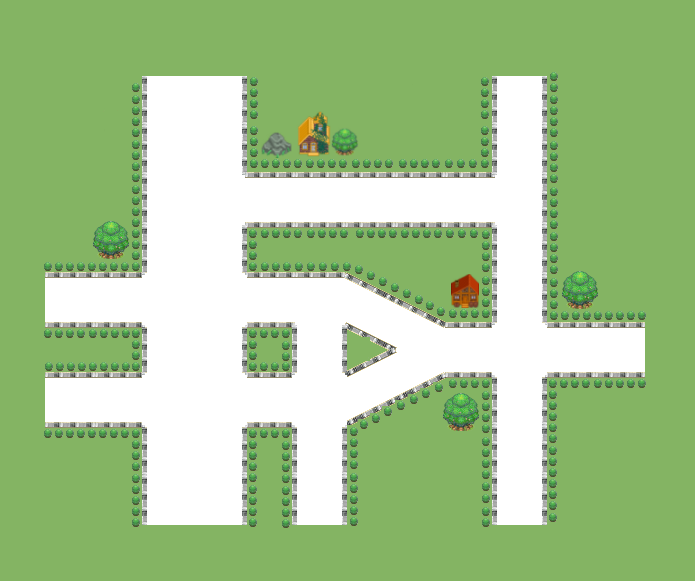
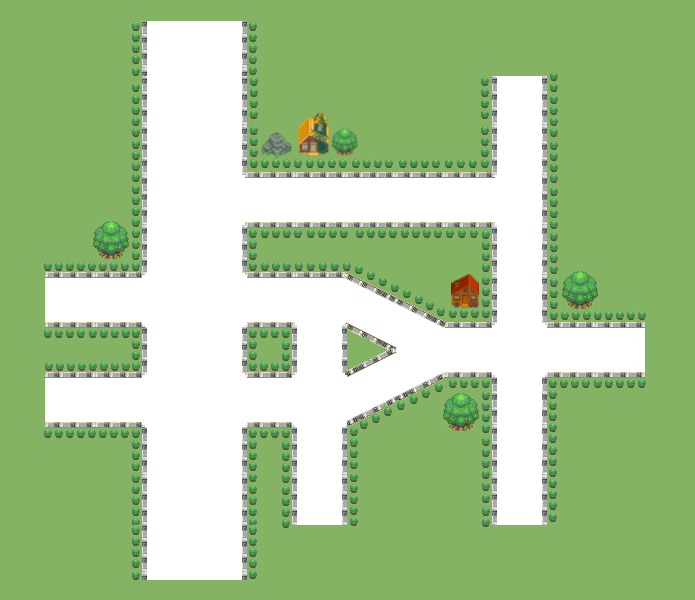
changing map

diff --git a/src/static/js/map.js b/src/static/js/map.js
@@ -6,6 +6,7 @@ function building_road() {
         [275, 325, 90, 'road'],
         [275, 275, 90, 'road'],
 
+        [350, 550, 0, 'road'],
         [350, 500, 0, 'road'],
         [350, 450, 0, 'road'],
         [325, 425, 90, 'road'],
@@ -17,7 +18,9 @@ function building_road() {
         [350, 200, 0, 'road'],
         [350, 150, 0, 'road'],
         [350, 100, 0, 'road'],
+        [350, 50, 0, 'road'],
 
+        [450, 50, 0, 'road'],
         [450, 100, 0, 'road'],
         [450, 150, 0, 'road'],
         [475, 175, 90, 'road'],
@@ -30,6 +33,7 @@ function building_road() {
         [475, 425, 90, 'road'],
         [450, 450, 0, 'road'],
         [450, 500, 0, 'road'],
+        [450, 550, 0, 'road'],
 
         [500, 500, 0, 'road'],
         [500, 450, 0, 'road'],
@@ -90,7 +94,7 @@ function building_road() {
 function creating_autocar(x, y) {
     auto_car = game.add.sprite(x, y, 'auto_car');
     auto_car.anchor.set(0.5);
-    auto_car.scale.set(0.12);
+    auto_car.scale.set(0.14);
 
     game.physics.p2.enable(auto_car, false);
     auto_car.body.setCollisionGroup(carCollisionGroup);

diff --git a/src/static/js/fuzzy_control.js b/src/static/js/fuzzy_control.js
@@ -51,8 +51,8 @@ function controlling_deviation() {
     }
     // --------------------------------------------------------------
 
-    deviation = denta_x/(denta_x+denta_y);
 
+    deviation = denta_x/(denta_x+denta_y);
     // console.log("Deviation: " + deviation);
     
     var final_fuzzy = choosing_deviation_steering_rules(deviation);
